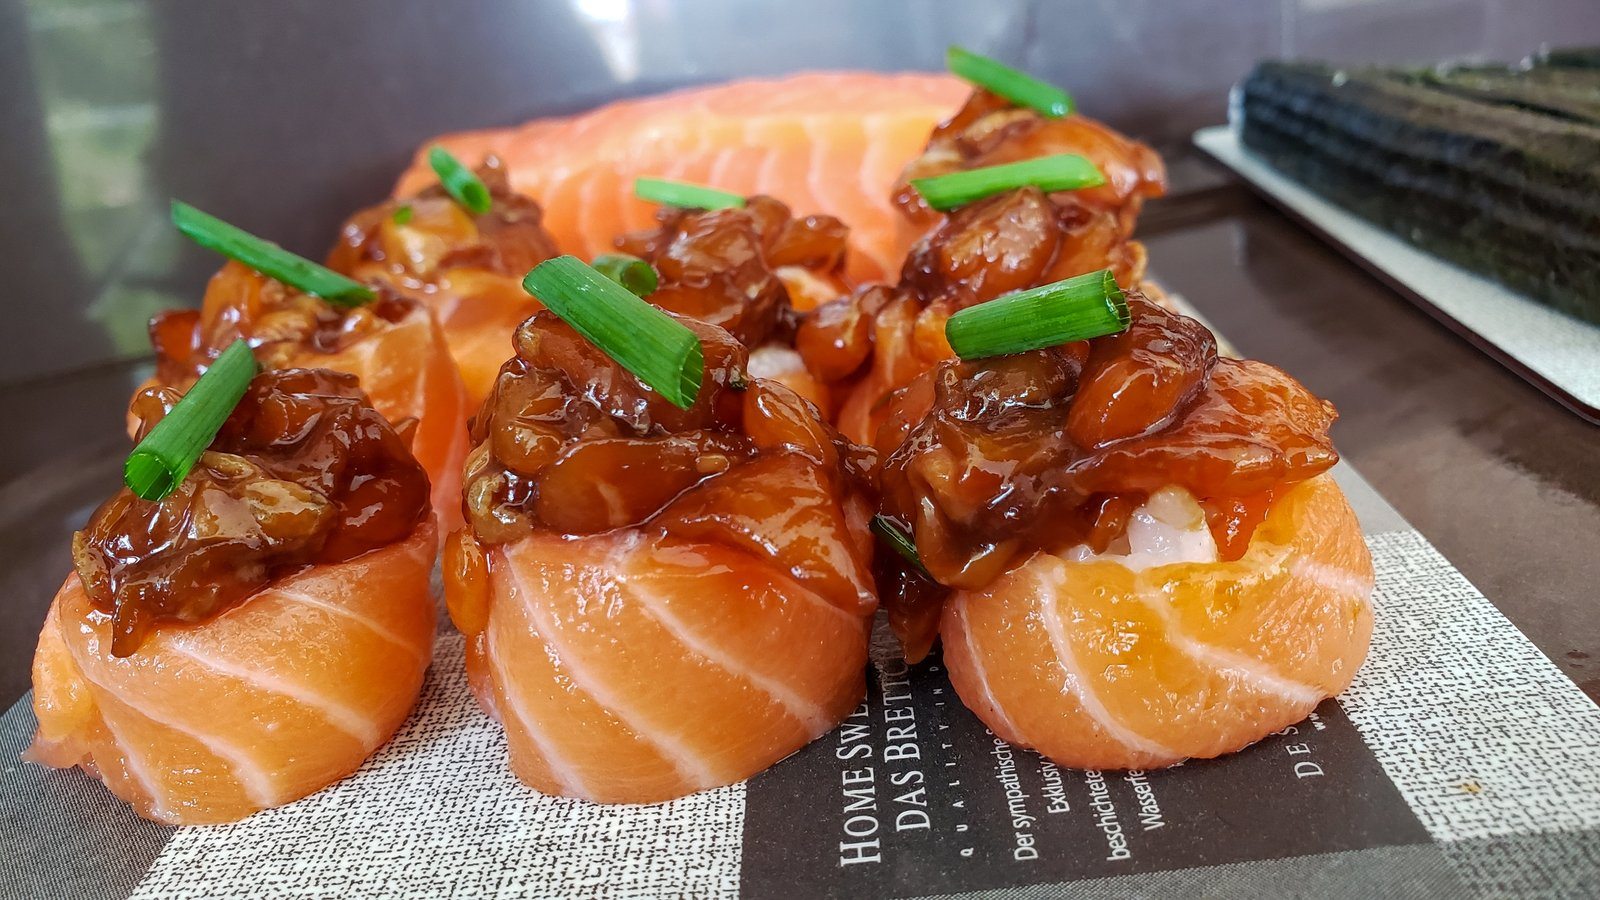
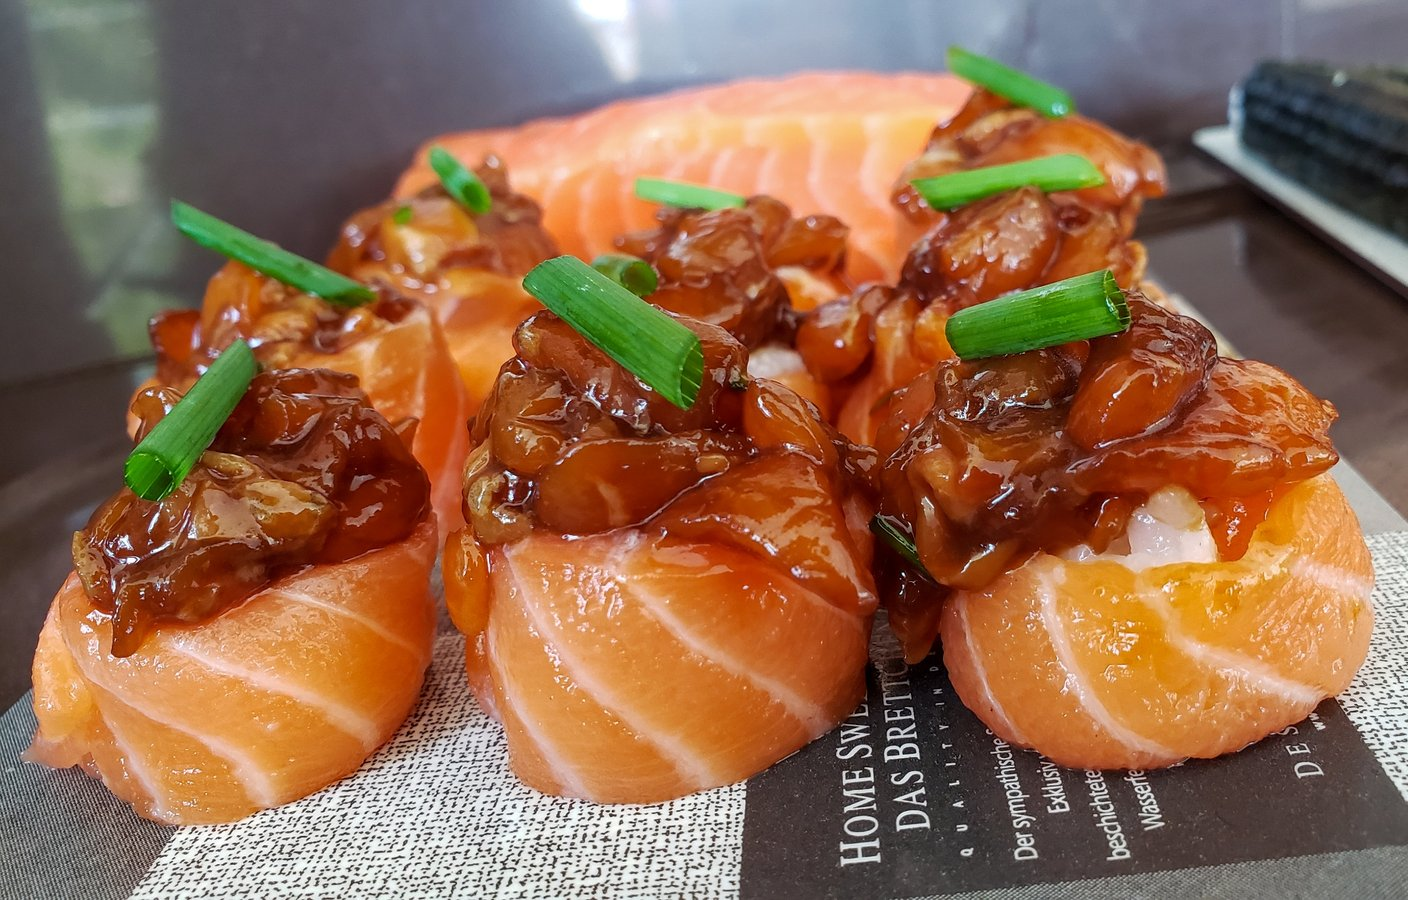
Update jyo picture

diff --git a/_pages/recipes.html b/_pages/recipes.html
@@ -19,11 +19,11 @@ sitemap: false
     {% if section_recipes.size > 0 %}
       <ul class="recipe-grid" role="list">
         {% for recipe in section_recipes %}
-          {% assign cover_photo = recipe.cover_photo | default: recipe.photo %}
           <li>
             <a class="recipe-card" href="{{ recipe.url | relative_url }}">
-              {% if cover_photo and cover_photo != empty %}
-                <img src="{{ cover_photo | prepend: '/recipes/' | relative_url | escape }}" alt="" loading="lazy" decoding="async">
+              {% if recipe.photo and recipe.photo != empty %}
+                <img src="{{ recipe.photo | prepend: '/recipes/' | relative_url | escape }}" alt="" loading="lazy" decoding="async"
+                  {% if recipe.show_full_photo %}style="aspect-ratio: auto; object-fit: contain"{% endif %}>
               {% endif %}
               <h3 class="recipe-card-title">{{ recipe.title | escape }}</h3>
             </a>

diff --git a/_recipes/jyo.md b/_recipes/jyo.md
@@ -3,7 +3,7 @@ title: Jyo
 published: true
 section: sushi
 photo: floripa_jyos.jpg
-cover_photo: floripa_jyos_card.jpg
+show_full_photo: true
 next_time:
 ---
 
